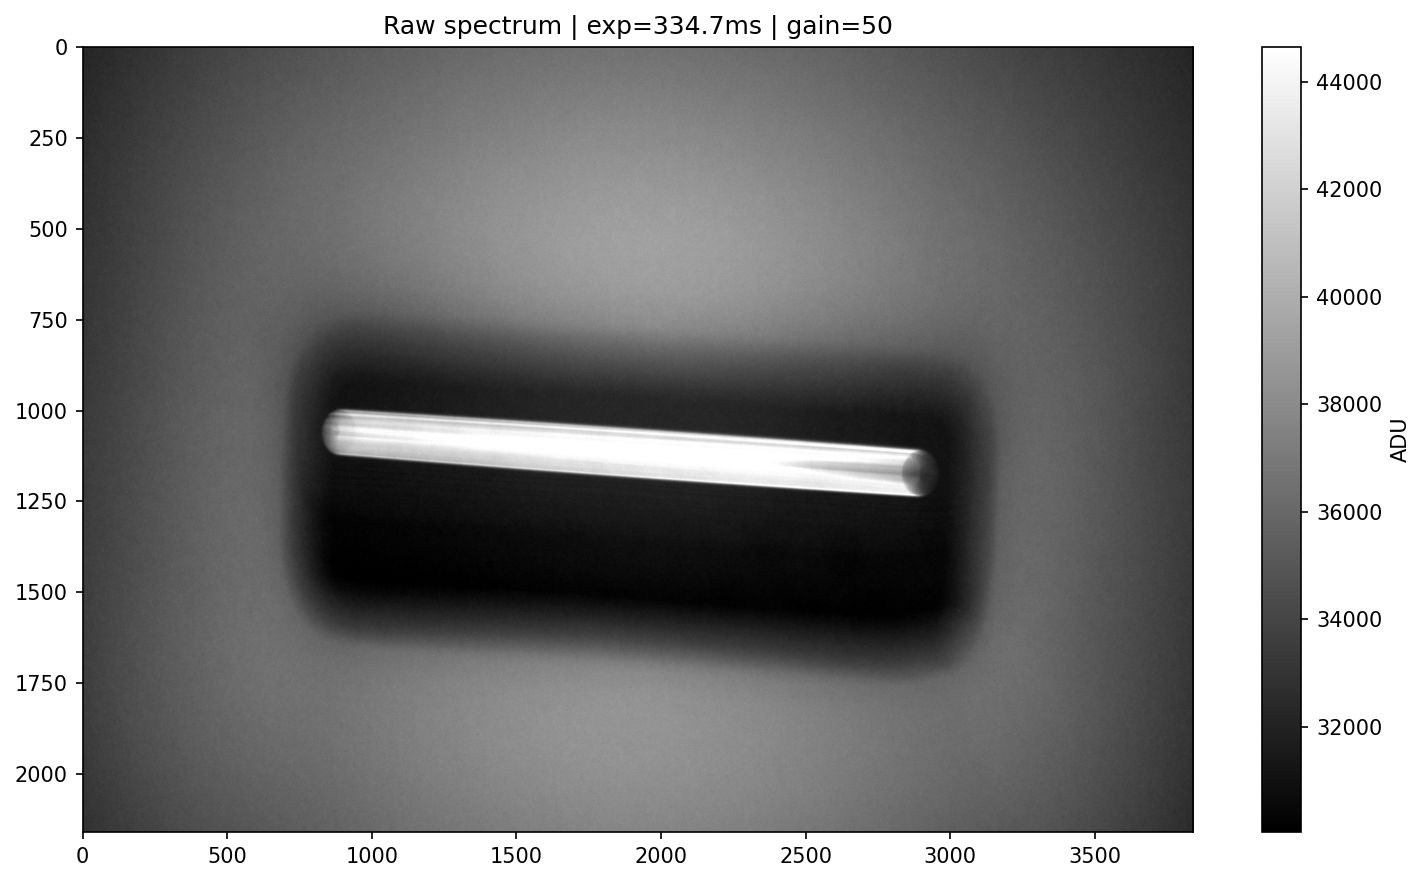
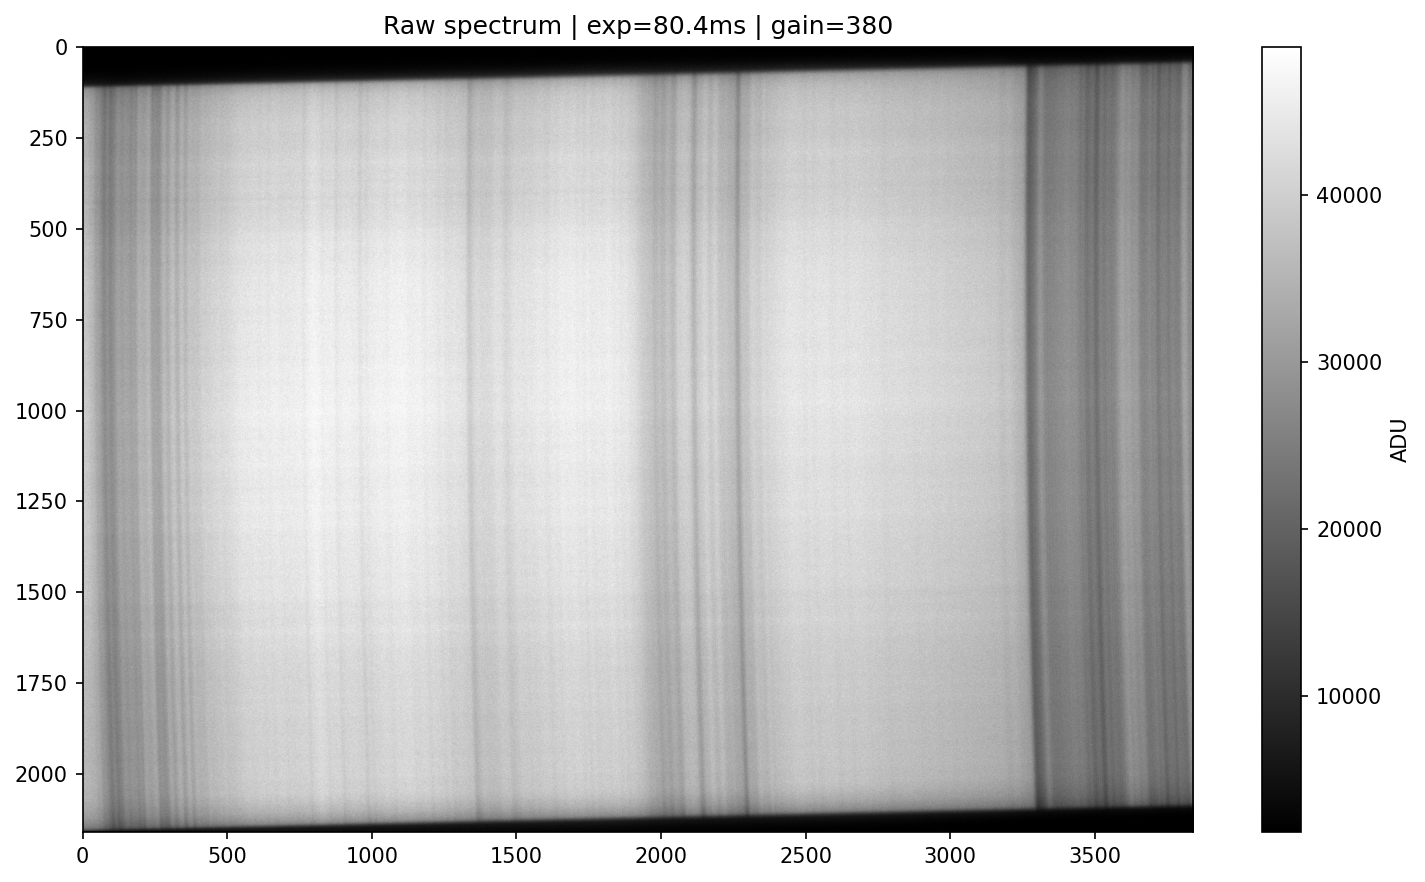
Dumbass forgot to pull on the pi for the final code

diff --git a/flight_capture/flight_capture.py b/flight_capture/flight_capture.py
@@ -14,10 +14,10 @@ from astropy.io import fits
 cadence = 15 # in seconds
 target_mean = 35000 # pixel target for spectra? 
 tolerance = 1000 # within 1000 of target? ok
-exposure = 100000 # starting guess
+exposure = 90000 # starting guess (90 ms)
 exp_min = 1000 # minimum allowed (1 ms)
 exp_max = 5000000 # maximum allowed (5 s) may be lowered
-gain = 50 # for low light spectra, can be changed and mostly likely will be
+gain = 380 # for low light spectra, can be changed and mostly likely will be
 
 # TO DO : Figure out what happens to the time when you disconnect wifi, power cycle, and reconnect wifi and figure out a solution HOW THE FUCK TO TRACK TIME
 # TO DO : find a function that relates the change of altitude with the brightness, and implement it into influencing what the target mean will be?
@@ -86,7 +86,6 @@ def write_status_file(status_path, status_dict):
 
     os.replace(temp_path, status_path)
 
-
 def save_control_values(filename, settings):
     filename += '.txt'
     with open(filename, 'w') as f:
@@ -103,7 +102,6 @@ def log(message, log_path):
     print(line)
     with open(log_path, 'a') as f:
         f.write(line + '\n')
-
 
 # camera connection check
 num_cameras = asi.get_num_cameras()

diff --git a/imagetest.py b/imagetest.py
@@ -4,7 +4,7 @@ matplotlib.use('Agg')
 import matplotlib.pyplot as plt
 from astropy.io import fits
 
-with fits.open('/home/jacobt/spectrometer/captures/20260609_195151_exp334738_gain50.fits') as hdul:
+with fits.open('/home/jacobt/spectrometer/captures/20260610_195730_exp80376_gain380.fits') as hdul:
     frame = hdul[0].data
     header = hdul[0].header
 